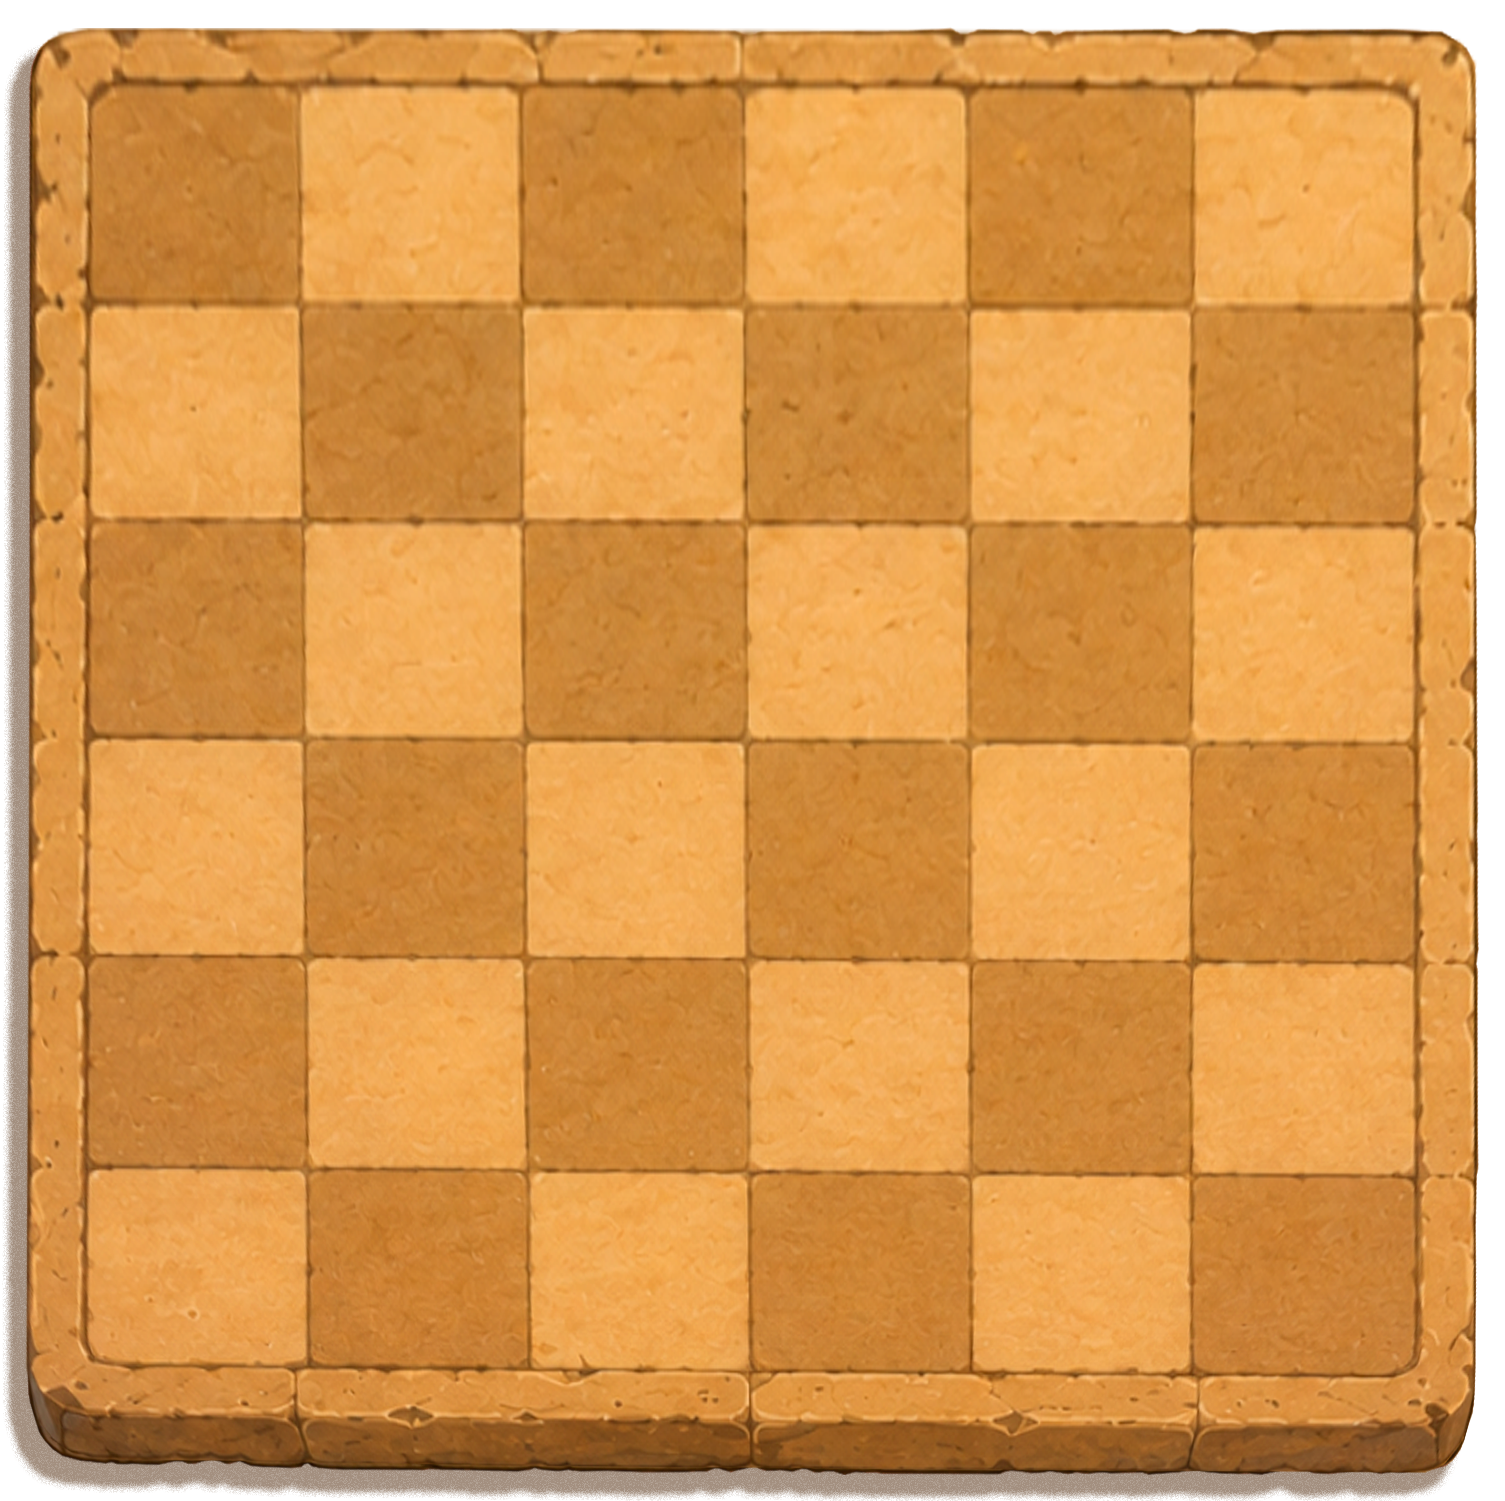
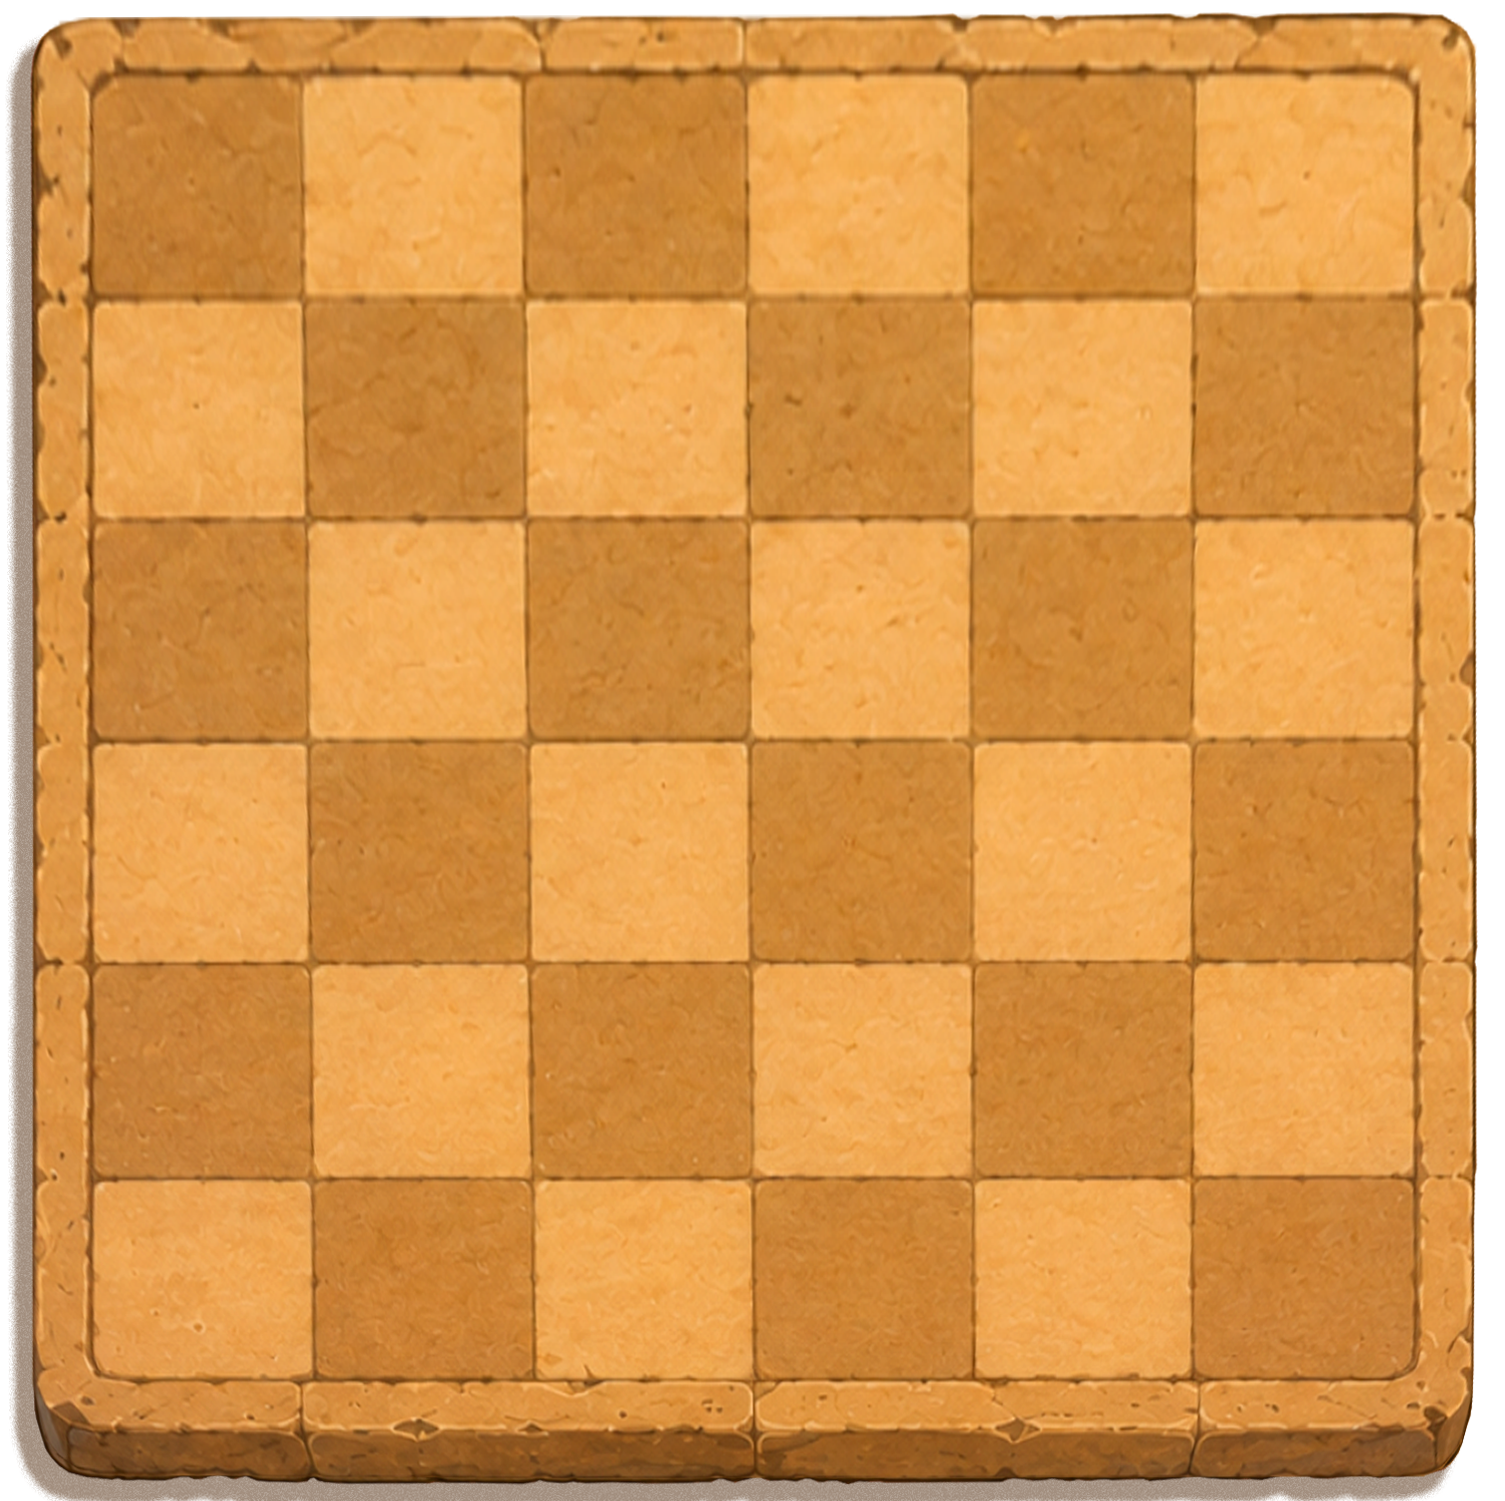
fix crab selection and animate sprites and movement

diff --git a/frontend/src/App.css b/frontend/src/App.css
@@ -29,17 +29,26 @@
   background-position: center;
   background-size: 100% 100%;
 
-  transform: rotateX(40deg);
+  transform: rotateX(var(--board-tilt));
   transform-origin: center bottom;
   transform-style: preserve-3d;
   top: -23vw;
 }
+.board,
+.board-grid,
+.crab-layer,
+.crab-piece {
+  transform-style: preserve-3d;
+}
 
 .board-scene {
+  --board-tilt: 40deg;
+
   width: min(100vw, 950px);
   aspect-ratio: 1;
   perspective: min(120vw, 950px);
   perspective-origin: center 30%;
+
   display: flex;
   align-items: center;
   justify-content: center;
@@ -81,76 +90,90 @@
 
   /* Крабы */
 
-.crab {
+.crab-piece {
   position: absolute;
-  z-index: 2;
 
-  width: 10.8333%;
+  width: calc(100% / 6);
   aspect-ratio: 1;
   padding: 0;
 
   border: 0;
-  border-radius: 0;
   outline: 0;
+  box-shadow: none;
   background: transparent;
 
   transform: translate(-50%, -50%);
+  transform-style: preserve-3d;
 
   overflow: visible;
-  pointer-events: auto;
-  cursor: pointer;
-}
-.crab__image {
+  pointer-events: none;
+
+  transition:
+    left 500ms cubic-bezier(0.22, 1, 0.36, 1),
+    top 500ms cubic-bezier(0.22, 1, 0.36, 1);
+} 
+.crab__visual {
   position: absolute;
   left: 50%;
-  bottom: 50%;
+  bottom: 5%;
 
-  width: 150%;
-  max-width: none;
-  height: auto;
+  width: 100%;
+  aspect-ratio: 2048 / 2025;
 
   display: block;
+  overflow: hidden;
 
   transform:
     translateX(-50%)
-    rotateX(-40deg);
+    rotateX(calc(var(--board-tilt) * -1));
 
   transform-origin: center bottom;
-
-  pointer-events: none;
-  user-select: none;
 
   transition:
     transform 150ms ease,
     filter 150ms ease;
 }
+.crab__sprite-sheet {
+  position: absolute;
+  top: 0;
+  left: 0;
 
-.crab:hover:not(:disabled) .crab__image,
-.crab--selected .crab__image {
+  width: 2500%;
+  max-width: none;
+  height: 100%;
+
+  display: block;
+
+  animation:
+    crab-idle 1.25s steps(25, end) infinite;
+}
+.crab-layer,
+.crab-layer * {
+  pointer-events: none;
+  user-select: none;
+}
+.crab-hitbox {
+  position: absolute;
+  z-index: 1;
+  inset: 0;
+
+  width: 100%;
+  height: 100%;
+  padding: 0;
+
+  border: 0;
+  background: transparent;
+
+  cursor: pointer;
+}
+
+.crab-hitbox:disabled {
+  cursor: default;
+}
+.crab-piece--selected .crab__visual {
   transform:
     translateX(-50%)
-    rotateX(-40deg)
-    scale(1.08);
-}
-
-.crab--selected .crab__image {
-  filter:
-    drop-shadow(0 0 3px white)
-    drop-shadow(0 0 7px #2f241c);
-}
-
-.crab:disabled {
-  cursor: default;
-}
-.crab:disabled {
-  cursor: default;
-}
-
-.crab--selected {
-  transform: translate(-50%, -50%) scale(1.08);
-  box-shadow:
-    0 0 0 5px #fff,
-    0 0 0 9px #2f241c;
+    rotateX(calc(var(--board-tilt) * -1))
 }
 
   /* Секция Игры */
@@ -1339,13 +1362,15 @@ img.profile-divider-line  {
   }
   
   .board-scene {
+    --board-tilt: 50deg;
+
     width: min(120vh, 90vw);
     perspective: min(120vh, 90vw);
     margin-top: 0;
   }
+
   .board {
     top: -30vh;
-    transform: rotateX(50deg);
   }
   .game-room {
     background-image: url(/images/crab-game-bg.png);
@@ -1357,10 +1382,6 @@ img.profile-divider-line  {
     padding: 2vh;
     font-size: 2.5vh;
     margin-top: -2.5vh;
-  }
-  .crab img {
-    width: 100%;
-    perspective: none;
   }
 }
 
@@ -1418,19 +1439,27 @@ img.profile-divider-line  {
 
 
 
-
-/* Анимация пульсации */
 @keyframes pulse-glow {
   0% {
     transform: scale(0.95);
     opacity: 0.5;
   }
   50% {
-    transform: scale(1.2); /* Расширение свечения */
-    opacity: 1;            /* Максимальная яркость */
+    transform: scale(1.2);
+    opacity: 1;
   }
   100% {
     transform: scale(0.95);
     opacity: 0.5;
+  }
+}
+
+@keyframes crab-idle {
+  from {
+    transform: translateX(0);
+  }
+
+  to {
+    transform: translateX(-100%);
   }
 }

diff --git a/frontend/src/components/Board/Board.jsx b/frontend/src/components/Board/Board.jsx
@@ -22,13 +22,16 @@ function Board({
       ]
     }),
   )
+  .sort((firstCrab, secondCrab) =>
+    firstCrab.id.localeCompare(secondCrab.id),
+  )
 
   return (
     <div className="board-scene">
       <div className="board">
         <div className="board-grid">
           {board.map((row, rowIndex) =>
-            row.map((_, columnIndex) => {
+              row.map((crab, columnIndex) => {
               const isSelectedCell =
                 selectedCrab?.row === rowIndex &&
                 selectedCrab?.column === columnIndex
@@ -38,6 +41,25 @@ function Board({
                   className="cell"
                   key={`${rowIndex}-${columnIndex}`}
                 >
+                  {crab !== null && (
+                    <button
+                      className="crab-hitbox"
+                      type="button"
+                      disabled={
+                        isGameOver ||
+                        crab.color !== currentPlayer
+                      }
+                      aria-label={`${crab.color} crab`}
+                      onClick={() =>
+                        onCrabClick(
+                          rowIndex,
+                          columnIndex,
+                          crab,
+                        )
+                      }
+                    />
+                  )}
+
                   {isSelectedCell &&
                     availableMoves.map((move) => (
                       <button
@@ -48,8 +70,7 @@ function Board({
                         key={move.name}
                         aria-label={`Move ${move.name}`}
                         onClick={() => onMove(move)}
-                      >
-                      </button>
+                      />
                     ))}
                 </div>
               )
@@ -68,40 +89,31 @@ function Board({
                 ((crab.row + 0.5) / BOARD_SIZE) * 100
 
               return (
-                <button
-                  className={`crab ${
-                    isSelected ? 'crab--selected' : ''
+                <div
+                  className={`crab-piece ${
+                    isSelected ? 'crab-piece--selected' : ''
                   }`}
                   style={{
                     left: `${left}%`,
                     top: `${top}%`,
+                    zIndex: crab.row + 2,
                   }}
-                  type="button"
                   key={crab.id}
-                  disabled={
-                    isGameOver ||
-                    crab.color !== currentPlayer
-                  }
-                  aria-label={`${crab.color} crab`}
-                  onClick={() =>
-                    onCrabClick(
-                      crab.row,
-                      crab.column,
-                      crab,
-                    )
-                  }
+                  aria-hidden="true"
                 >
-                  <img
-                    className="crab__image"
-                    src={
-                      crab.color === 'blue'
-                        ? '/images/crabs/Crab-blue.png'
-                        : '/images/crabs/Crab-red.png'
-                    }
-                    alt=""
-                    draggable="false"
-                  />
-                </button>
+                  <span className="crab__visual">
+                    <img
+                      className="crab__sprite-sheet"
+                      src={
+                        crab.color === 'blue'
+                          ? '/images/crabs/Crab-blue-animation.png'
+                          : '/images/crabs/Crab-red-animation.png'
+                      }
+                      alt=""
+                      draggable="false"
+                    />
+                  </span>
+                </div>
               )
             })}
           </div>

diff --git a/frontend/src/App.jsx b/frontend/src/App.jsx
@@ -49,19 +49,12 @@ function getStoredProfile() {
   }
 }
 
-const connectionLabels = {
-  connecting: 'Подключение…',
-  connected: 'Подключено',
-  disconnected: 'Соединение закрыто',
-  error: 'Ошибка соединения',
-}
-
 function App() {
   const [board, setBoard] = useState(INITIAL_BOARD)
   const [selectedCrab, setSelectedCrab] = useState(null)
   const [currentPlayer, setCurrentPlayer] = useState(null)
   const [winner, setWinner] = useState(null)
-  const [skippedPlayer, setSkippedPlayer] = useState(null)
+  const [, setSkippedPlayer] = useState(null)
   const [isDraw, setIsDraw] = useState(false)
   const [gamePhase, setGamePhase] = useState('menu')
   const [roomCode, setRoomCode] = useState('')
